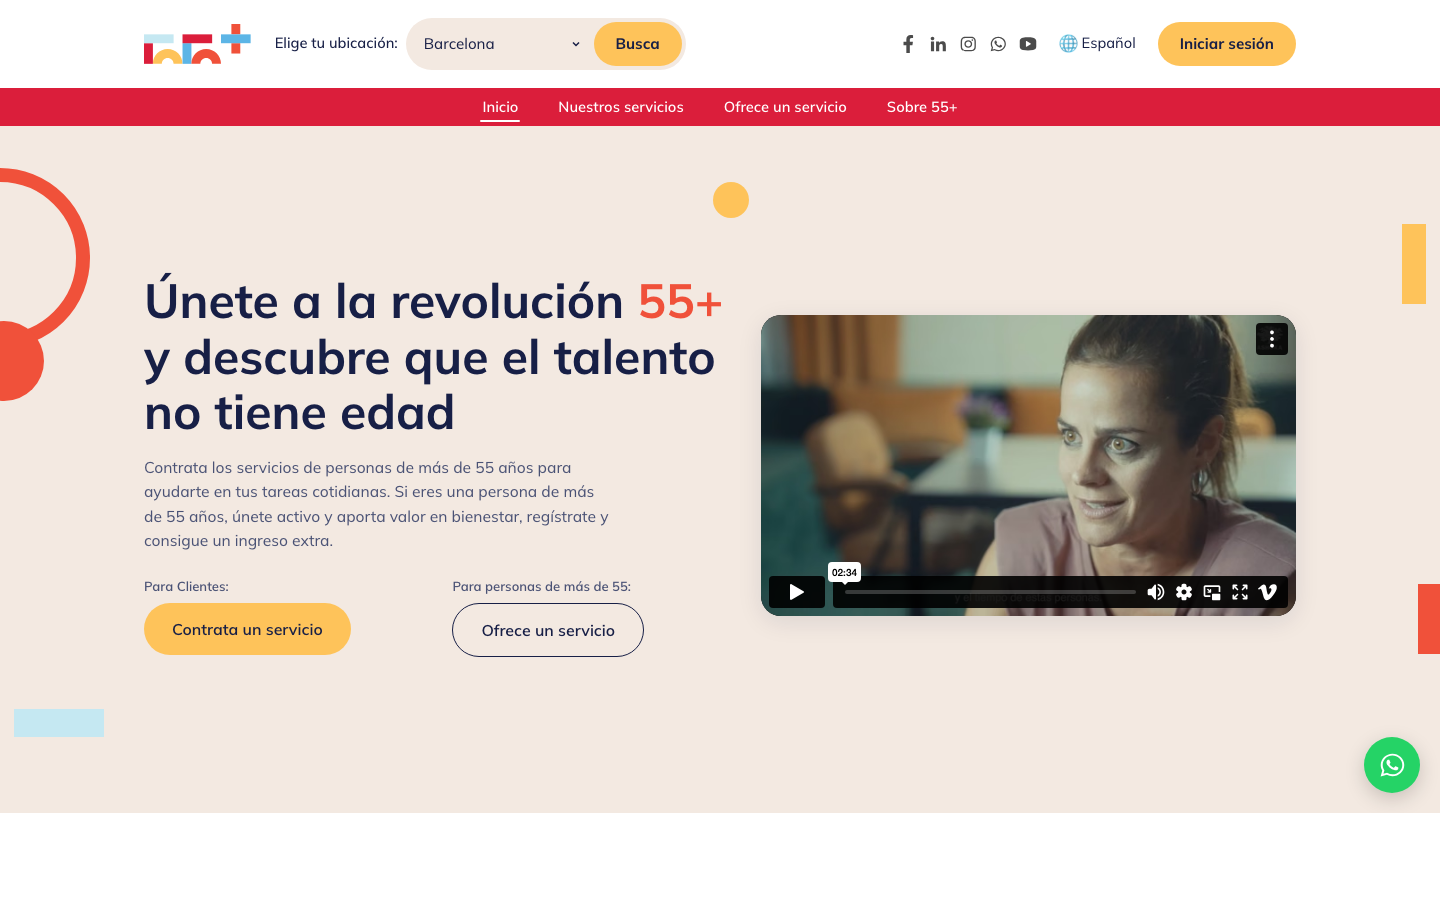
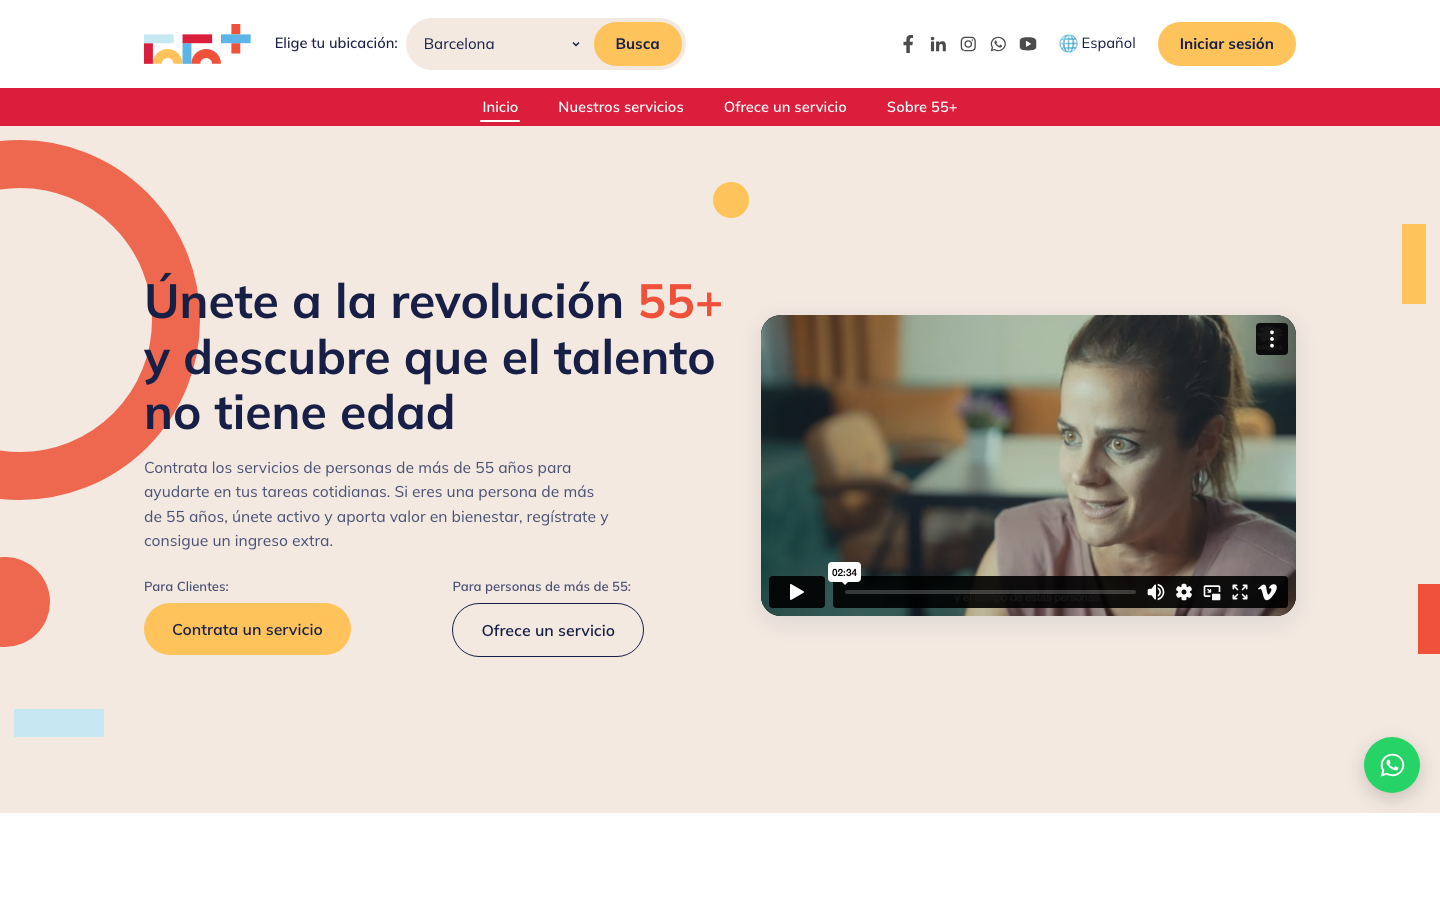
fix(mockup): hero ring — bigger, salmon, disc separated with gap
Three deltas vs the previous attempt:
- Color: switched from --color-primary (#F0513A) to --color-accent-
  salmon (#EE684F) to match the original's slightly more orange tone.
- Size: ring 180→360 desktop, border 14→48px; the visible portion of
  the donut now occupies a chunk of the left third of the viewport.
- Disc: moved down (28% → 62% top) and slightly less off-screen, so
  it reads as a separate element with a clear gap from the ring,
  matching the original composition.

Mobile values scaled accordingly (ring 240, border 32, disc 64).

Not pushed.

Changed region(s): [[0.0, 0.1556, 0.1562, 0.56], [0.0, 0.6222, 0.0312, 0.7156]]

diff --git a/static-mockups/55mas-home/styles.css b/static-mockups/55mas-home/styles.css
@@ -295,23 +295,23 @@ ul, ol { margin: 0; padding: 0; list-style: none; }
 .hero__decor { position: absolute; pointer-events: none; z-index: 0; }
 .hero__content, .hero__media { position: relative; z-index: 2; }
 
-/* Composite "donut" on the upper-left: an outline ring + a smaller
-   solid disc beside it, both bleeding off the left edge. Stays above
-   the paragraph so it never overlaps the body copy. */
+/* Composite donut on the upper-left: a large outline ring + a small
+   solid disc below it (with a visible gap), both bleeding off the
+   left edge. Color matches the salmon variant seen on the original. */
 .hero__decor--ring {
-  top: 8%;
-  left: -70px;
-  width: 130px; height: 130px;
+  top: 4%;
+  left: -120px;
+  width: 240px; height: 240px;
   border-radius: 50%;
   background: transparent;
-  border: 10px solid var(--color-primary);
+  border: 32px solid var(--color-accent-salmon);
 }
 .hero__decor--disc {
-  top: 24%;
-  left: -28px;
-  width: 56px; height: 56px;
+  top: 56%;
+  left: -30px;
+  width: 64px; height: 64px;
   border-radius: 50%;
-  background: var(--color-primary);
+  background: var(--color-accent-salmon);
 }
 .hero__decor--dot {
   top: 10%; right: 8%;
@@ -333,15 +333,15 @@ ul, ol { margin: 0; padding: 0; list-style: none; }
 
 @media (min-width: 768px) {
   .hero__decor--ring {
-    top: 6%;
-    left: -90px;
-    width: 180px; height: 180px;
-    border-width: 14px;
+    top: 2%;
+    left: -160px;
+    width: 360px; height: 360px;
+    border-width: 48px;
   }
   .hero__decor--disc {
-    top: 28%;
-    left: -36px;
-    width: 80px; height: 80px;
+    top: 62%;
+    left: -40px;
+    width: 90px; height: 90px;
   }
   .hero__decor--dot { top: 8%; right: 48%; width: 36px; height: 36px; }
   .hero__decor--yellow-rect {
